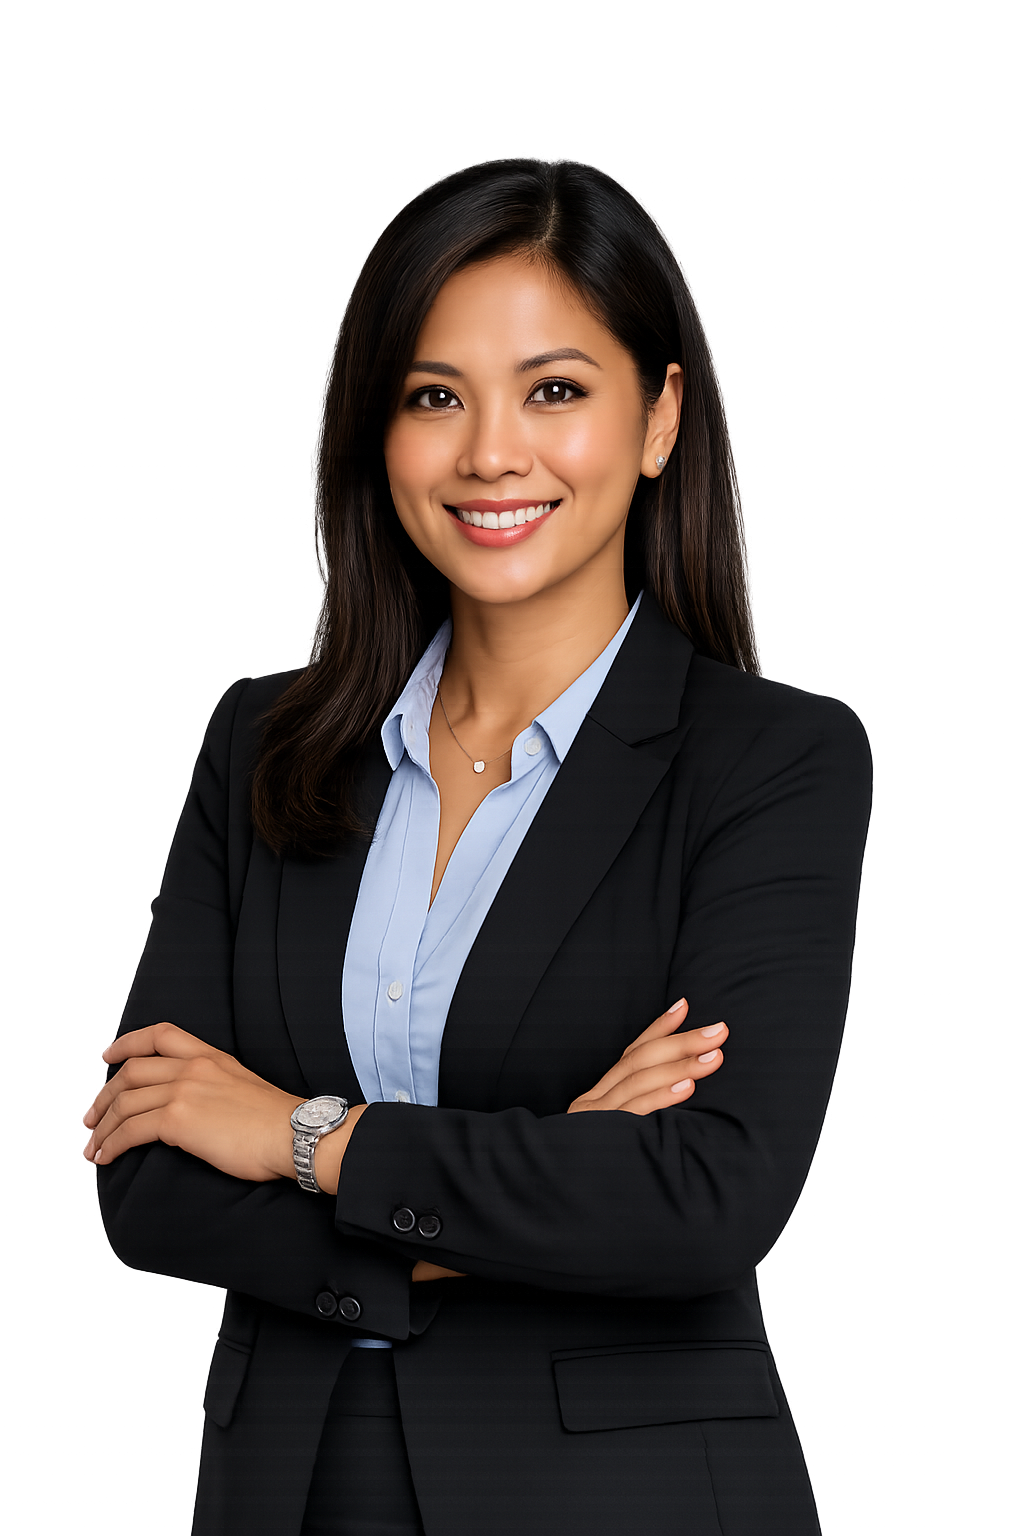
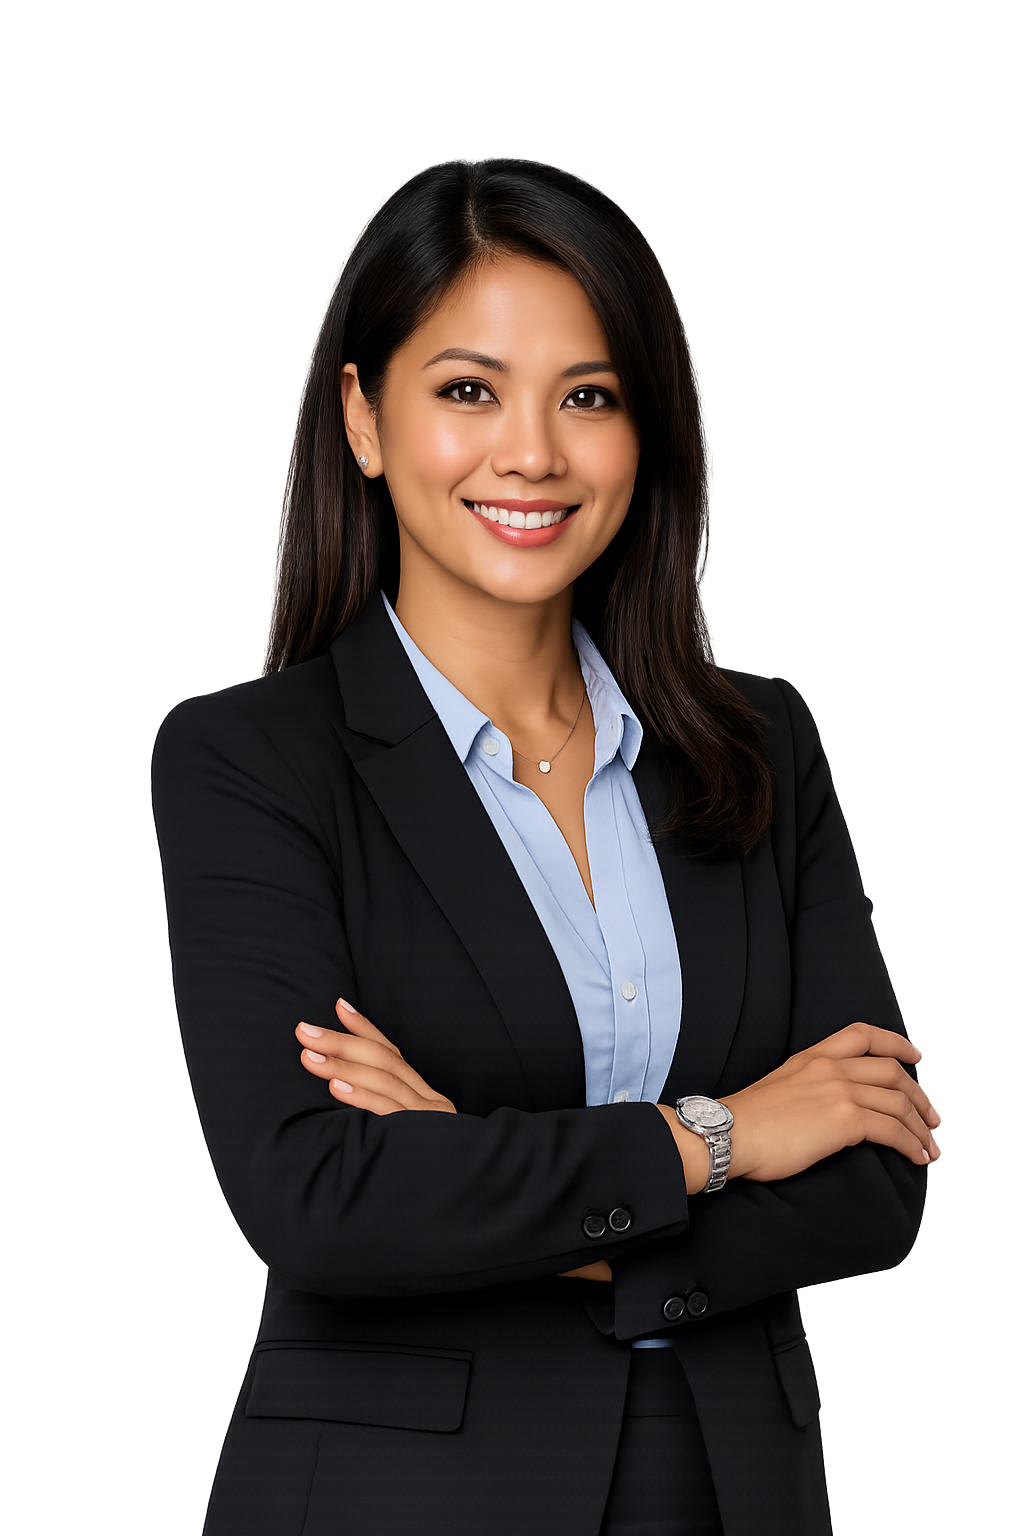
feat: add contact page with form validation and email functionality

diff --git a/client/src/pages/Contact.jsx b/client/src/pages/Contact.jsx
@@ -1,20 +1,27 @@
 import { Building2, Clock, Mail, MapPin, Phone, Search, Shield, Target, Users, Zap } from "lucide-react";
 import TopBar from "../components/TopBar";
 import { Link } from "react-router-dom";
-import professional from '../assets/professional.png';
-import casual from '../assets/casual.png';
-import recruitment from '../assets/recruitment.png';
-import callCenter from '../assets/call-center.png';
 import emailjs from "@emailjs/browser";
 import { useForm } from "../hooks/form";
 import { useState } from "react";
 import { Modal } from "../components/ui/ui-modal";
 import Input from "../components/ui/Input";
 import Textarea from "../components/ui/Textarea";
+import callCenter from '../assets/call-center.png';
 import PhilippinePhoneInput from "../components/ui/PhilippinePhoneInput";
-import { contactSchema } from "../utils/schemas/contactSchema";
 
-export default function Home() {
+export default function Contact() {
+
+    const contactSection = {
+        title: "Get in Touch",
+        subTitle: "Gen in touch with us using the enquiry form or contact details below",
+        details: {
+            email: "revierconsultants@yahoo.com",
+            phone: "0921 444 9014",
+            location: "3rd floor, S-Drive Center Building, General Malvar St., Brgy. Tubigan, Binãn, Philippines",
+        }
+    }
+
 
     const { formData, setFormData, handleInputChange } = useForm({
         firstName: "",
@@ -28,37 +35,22 @@ export default function Home() {
     const [status, setStatus] = useState("");
 
     const handleSubmit = async () => {
-        setStatus("");
-
-        const dataToValidate = {
-            ...formData,
-            phone: formData.phone.replace(/\s/g, ""),
-        };
-
-        const result = contactSchema.safeParse(dataToValidate);
-
-        if (!result.success) {
-            const firstError = result.error.issues[0];
-
-            setStatus(firstError.message);
-            return;
-        }
 
         setLoading(true);
-
+        setStatus("");
         try {
             await emailjs.send(
                 import.meta.env.VITE_EMAILJS_SERVICE_ID,
                 import.meta.env.VITE_EMAILJS_TEMPLATE_ID,
                 {
-                    firstName: result.data.firstName,
-                    lastName: result.data.lastName,
-                    to_email: result.data.to_email,
-                    phone: result.data.phone,
-                    message: result.data.message,
+                    firstName: formData.firstName,
+                    lastName: formData.lastName,
+                    to_email: formData.to_email,
+                    phone: formData.phone,
+                    message: formData.message
                 },
                 {
-                    publicKey: import.meta.env.VITE_EMAILJS_PUBLIC_KEY,
+                    publicKey: import.meta.env.VITE_EMAILJS_PUBLIC_KEY
                 }
             );
 
@@ -69,7 +61,7 @@ export default function Home() {
                 lastName: "",
                 to_email: "",
                 phone: "",
-                message: "",
+                message: ""
             });
 
         } catch (error) {
@@ -80,129 +72,10 @@ export default function Home() {
         }
     };
 
-    const heroSection = {
-        title: "Land the Job You've Been Looking For",
-        subTitle: "Explore tailored opportunities, connect with leading companies, and take the next step in your career with confidence.",
-        button: "Browse Jobs",
-        image1: casual,
-        image2: professional
-    }
-
-    const howItWorksSection = {
-        title: "your future starts with right opportunity",
-        steps: [
-            {
-                title: "create your profile",
-                subTitle: "sign up and build your professional profile to showcase your skills and experience."
-            },
-            {
-                title: "Search & Apply",
-                subTitle: "browse jobs based on your interest, location, and expertise—apply in just one click."
-            },
-            {
-                title: "get hired",
-                subTitle: "connect with employers, attend interviews, and land your ideal job."
-            },
-        ],
-        image: recruitment
-    }
-
-    const contactSection = {
-        title: "Get in Touch",
-        subTitle: "Gen in touch with us using the enquiry form or contact details below",
-        details: {
-            email: "revierconsultants@yahoo.com",
-            phone: "0921 444 9014",
-            location: "3rd floor, S-Drive Center Building, General Malvar St., Brgy. Tubigan, Binãn, Philippines",
-        }
-    }
-
 
     return (
-        <div className="flex flex-col">
+        <div className="min-h-screen flex flex-col">
             <TopBar />
-
-            <section className="grid lg:grid-cols-2 gap-16 bg-linear-to-b from-transparent to-emerald-100 px-4 md:px-[10vw] py-20">
-                <div className="max-lg:order-2 flex-center">
-                    <div className="w-[75%]">
-                        <p className="text-4xl font-semibold mb-4">{heroSection.title}</p>
-                        <p className="text-sm mb-4">{heroSection?.subTitle}</p>
-                        <Link to="/jobposting">
-                            <button className="btn rounded-full bg-emerald-500 text-white shadow-none border-none">
-                                {heroSection?.button}
-                            </button>
-                        </Link>
-                    </div>
-                </div>
-                <div className="max-lg:justify-center max-lg:order-1 flex gap-4">
-                    <div className="mb-12 relative w-fit rounded-3xl overflow-hidden">
-                        <div className="rounded-3xl bg-linear-to-b from-emerald-500 to-transparent
-                         absolute h-[75%] bottom-0 w-full z-0"
-                        />
-
-                        <img
-                            src={heroSection?.image1}
-                            alt="casual image"
-                            className="aspect-3/4 w-[20vw] object-cover relative z-10"
-                        />
-                    </div>
-
-                    <div className="mt-12 relative w-fit rounded-3xl overflow-hidden">
-                        <div className="rounded-3xl bg-linear-to-b from-emerald-500 to-transparent
-                         absolute h-[75%] bottom-0 w-full z-0"
-                        />
-
-                        <img
-                            src={heroSection?.image2}
-                            alt="professional image"
-                            className="aspect-3/4 w-[20vw] object-cover relative z-10"
-                        />
-                    </div>
-                </div>
-            </section>
-
-            <section className="grid lg:grid-cols-2 gap-16 px-4 md:px-[10vw] py-20">
-                <div>
-                    <p className="text-4xl font-semibold mb-16 capitalize">{howItWorksSection?.title}</p>
-                    <p className="mb-4 font-semibold capitalize">how it works</p>
-                    <div className="space-y-4">
-
-                        {howItWorksSection?.steps?.length > 0 ? (
-                            howItWorksSection?.steps.map((step, index) => (
-                                <div
-                                    key={index}
-                                    className="flex gap-4 bg-gray-100 rounded-xl p-4"
-                                >
-                                    <div className="flex-center h-10 aspect-square rounded-full bg-emerald-500 text-white font-semibold">
-                                        {String(index + 1).padStart(2, "0")}
-                                    </div>
-
-                                    <div>
-                                        <p className="font-semibold text-lg capitalize mb-4">
-                                            {step?.title}
-                                        </p>
-                                        <p className="capitalize text-gray-500">
-                                            {step?.subTitle}
-                                        </p>
-                                    </div>
-                                </div>
-                            ))
-                        ) : null}
-
-                    </div>
-                </div>
-
-                <div className="max-h-screen max-lg:hidden">
-                    <img
-                        src={howItWorksSection?.image}
-                        alt="recruitment"
-                        className="rounded-xl h-full object-cover"
-
-                    />
-                </div>
-
-            </section>
-
             <section className="px-4 md:px-[10vw] min-h-screen pb-20">
                 <div className="relative grid sm:grid-cols-2 overflow-hidden bg-emerald-500 text-white py-24 mb-16 px-8 rounded-xl">
 

diff --git a/client/src/components/TopBar.jsx b/client/src/components/TopBar.jsx
@@ -77,6 +77,16 @@ export default function TopBar() {
                             Find Jobs
                         </button>
                     </Link>
+
+                    <Link
+                        to={'/contact'}
+
+                    >
+                        <button className={`btn btn-ghost bg-transparent shadow-none border-none ${location.pathname === '/contact' ? 'text-emerald-500' : ''}`}>
+                            Contact Us
+                        </button>
+                    </Link>
+
                 </div>
 
                 <div className="flex gap-2 max-md:mr-4">
@@ -141,6 +151,15 @@ export default function TopBar() {
                     >
                         <button className={`p-4 text-sm font-semibold transition ${location.pathname === '/jobposting' ? 'text-emerald-500' : ''}`}>
                             Find Jobs
+                        </button>
+                    </Link>
+
+                    <Link
+                        to={'/contact'}
+
+                    >
+                        <button className={`p-4 text-sm font-semibold transition ${location.pathname === '/contact' ? 'text-emerald-500' : ''}`}>
+                            Contact Us
                         </button>
                     </Link>
                 </div>

diff --git a/client/src/components/ui/PhilippinePhoneInput.jsx b/client/src/components/ui/PhilippinePhoneInput.jsx
@@ -1,0 +1,41 @@
+import React from "react";
+
+const PhilippinePhoneInput = ({
+    value = "",
+    onChange,
+    name = "phone",
+    id = "phone",
+    label = "Phone Number",
+    required = false,
+    disabled = false,
+}) => {
+
+
+    return (
+        <div className="w-full">
+            {label && <p className="input-label mb-1">{label} {required && <span className="text-red-500">*</span>}</p>}
+
+            <div className="relative">
+                <div className="pointer-events-none absolute inset-y-0 left-0 flex items-center border-r border-gray-300 px-3 text-sm text-gray-600">
+                    🇵🇭 +63
+                </div>
+
+                <input
+                    type="tel"
+                    id={id}
+                    name={name}
+                    value={value}
+                    onChange={onChange}
+                    placeholder="09XX XXX XXXX"
+                    maxLength={11}
+                    required={required}
+                    disabled={disabled}
+                    className="w-full rounded-xl py-2.5 pl-20 pr- bg-gray-100 disabled:pointer-events-non focus:outline-2 outline-emerald-500"
+                />
+            </div>
+
+        </div>
+    );
+};
+
+export default PhilippinePhoneInput;

diff --git a/client/src/utils/schemas/contactSchema.js b/client/src/utils/schemas/contactSchema.js
@@ -1,0 +1,31 @@
+import { z } from "zod";
+
+export const contactSchema = z.object({
+    firstName: z
+        .string()
+        .trim()
+        .min(1, "First name is required"),
+
+    lastName: z
+        .string()
+        .trim()
+        .min(1, "Last name is required"),
+
+    to_email: z
+        .string()
+        .trim()
+        .email("Please enter a valid email address"),
+
+    phone: z
+        .string()
+        .trim()
+        .regex(
+            /^09\d{9}$/,
+            "Please enter a valid Philippine mobile number"
+        ),
+
+    message: z
+        .string()
+        .trim()
+        .min(1, "Message is required"),
+});

diff --git a/client/src/App.jsx b/client/src/App.jsx
@@ -9,6 +9,7 @@ import { UserContext } from "./context/AuthProvider"
 import NotFound from "./components/NotFound"
 import ProtectedRoute from "./components/ProtectedRoute"
 import Loading from "./components/Loading"
+import Contact from "./pages/Contact"
 
 function App() {
   const { loading } = useContext(UserContext);
@@ -30,6 +31,7 @@ function App() {
       <Route path="/jobposting" element={<JobPosting />} />
       <Route path="/register" element={<Register />} />
       <Route path="/login" element={<Login />} />
+      <Route path="/contact" element={<Contact />} />
 
       {/* PROTECTED */}
       <Route
